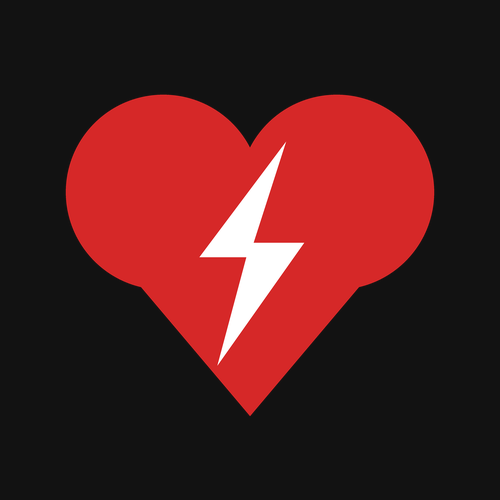
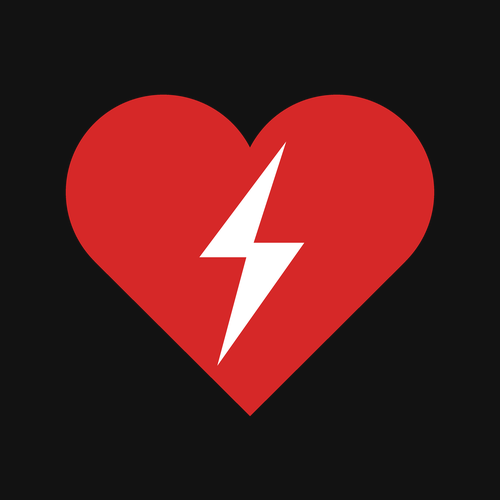
final commit preparing beta

diff --git a/tools/test_logo_geometry.py b/tools/test_logo_geometry.py
@@ -1,0 +1,124 @@
+"""Keeps the heart's silhouette honest, in both languages.
+
+The mark is drawn twice - once with Monkey C primitives in
+source/AedLogo.mc for the watch, once with Pillow in make_icons.py for
+the launcher and store PNGs. Nothing but discipline keeps those two in
+step, and the numbers are unlabelled fractions, so a drift shows up as
+"the icon looks slightly off" months later.
+
+Two real bugs live here, both found by eye and both invisible to every
+other check:
+
+  1. The V used to meet the lobes at an arbitrary inset, so each circle
+     bulged past the straight edge and left a step in the outline.
+  2. The first fix - a plain triangle between the tangent points - put
+     the top edge BELOW the height at which the two circles stop
+     overlapping, punching a hole through the middle of the heart.
+
+So these tests assert the geometry, not the literals: tangency, and
+that the cleavage is actually closed.
+"""
+
+from __future__ import annotations
+
+import math
+import re
+import sys
+from pathlib import Path
+
+import pytest
+
+ROOT = Path(__file__).resolve().parent.parent
+TOOLS = ROOT / "tools"
+if str(TOOLS) not in sys.path:
+    sys.path.insert(0, str(TOOLS))
+
+import make_icons as mi  # noqa: E402
+
+LOGO = (ROOT / "source" / "AedLogo.mc").read_text(encoding="utf-8")
+
+
+def monkeyc_const(name: str) -> float:
+    match = re.search(rf"const {name} = ([\d.]+);", LOGO)
+    assert match, f"AedLogo.mc no longer defines {name}"
+    return float(match.group(1))
+
+
+def test_the_tangent_point_is_actually_tangent():
+    """|CT| = r, and CT is perpendicular to the edge running to the tip."""
+    cx, cy = -mi.LOBE_X, mi.LOBE_DY          # left lobe centre
+    tx, ty = -mi.TANGENT_X, mi.TANGENT_Y     # claimed tangent point
+
+    radius = math.hypot(tx - cx, ty - cy)
+    assert radius == pytest.approx(mi.LOBE_R, abs=1e-5), (
+        f"the tangent point is {radius:.5f} from the lobe centre, but the "
+        f"lobe radius is {mi.LOBE_R} - so it is not on the circle at all"
+    )
+
+    # Edge from the tangent point down to the bottom tip.
+    edge = (0 - tx, mi.TIP_DY - ty)
+    spoke = (tx - cx, ty - cy)
+    dot = edge[0] * spoke[0] + edge[1] * spoke[1]
+    assert dot == pytest.approx(0.0, abs=1e-5), (
+        "the edge is not perpendicular to the radius, so the lobe bulges "
+        "past it and the silhouette has a step"
+    )
+
+
+def test_the_cleavage_is_closed():
+    """The bug that punched a hole through the middle of the heart.
+
+    Below this height the two lobes no longer overlap, so the polygon
+    has to reach at least that high in the middle or the gap between
+    them shows through.
+    """
+    lowest_overlap = mi.LOBE_DY + math.sqrt(mi.LOBE_R ** 2 - mi.LOBE_X ** 2)
+    middle_vertex = mi.LOBE_DY      # both files put it at lobe-centre height
+
+    assert middle_vertex < lowest_overlap, (
+        f"the polygon's middle vertex sits at y={middle_vertex:.5f}, below "
+        f"the last overlap at y={lowest_overlap:.5f} - the cleavage would "
+        f"be a hole"
+    )
+    assert mi.TANGENT_Y > lowest_overlap, (
+        "the tangent points are above the last overlap, which means a "
+        "plain triangle would have worked and this test is guarding "
+        "nothing - recheck the constants"
+    )
+
+
+def test_the_lobes_actually_overlap():
+    """Two separate circles with a V under them is not a heart."""
+    assert mi.LOBE_X < mi.LOBE_R, (
+        f"lobe centres are {2 * mi.LOBE_X} apart with radius {mi.LOBE_R}; "
+        f"they no longer meet"
+    )
+
+
+@pytest.mark.parametrize("name", ["TANGENT_X", "TANGENT_Y"])
+def test_the_watch_carries_the_same_numbers(name):
+    """AedLogo.mc and make_icons.py draw the same mark or neither is right."""
+    assert monkeyc_const(name) == pytest.approx(getattr(mi, name), abs=1e-6), (
+        f"{name} differs between AedLogo.mc and make_icons.py: the watch "
+        f"and the store icon would show different hearts"
+    )
+
+
+def test_the_mark_fits_inside_the_icon_box():
+    """MARK_SCALE has to be small enough to contain the widest point.
+
+    Raise a lobe or widen the heart without touching MARK_SCALE and the
+    launcher icons get clipped - lobes first, and on watches that crop
+    the icon to a circle, badly.
+    """
+    extents = {
+        "half-width": mi.LOBE_X + mi.LOBE_R,
+        "top": abs(mi.LOBE_DY) + mi.LOBE_R,
+        "tip": mi.TIP_DY,
+    }
+    for what, extent in extents.items():
+        drawn = extent * mi.MARK_SCALE
+        assert drawn <= 0.5, (
+            f"the mark's {what} reaches {drawn:.4f} of the box at "
+            f"MARK_SCALE={mi.MARK_SCALE}; anything over 0.5 is clipped"
+        )

diff --git a/tools/make_icons.py b/tools/make_icons.py
@@ -30,6 +30,22 @@ SUPERSAMPLE = 8
 RED = (214, 40, 40, 255)
 BOLT = (255, 255, 255, 255)
 
+# The heart, as fractions of the mark's size. LOBE_* and TIP_DY are the
+# free parameters; TANGENT_* are derived from them and must be
+# recomputed if any of the others move.
+LOBE_R = 0.27
+LOBE_X = 0.24
+LOBE_DY = -0.16
+TIP_DY = 0.46
+TANGENT_X = 0.430510
+TANGENT_Y = 0.031327
+
+# The mark is drawn at 86% of the icon box. Not cosmetic breathing room:
+# the heart is 0.51 wide either side of centre, so at full size it would
+# reach past the edge - and some watches crop the launcher icon to a
+# circle, which takes the lobes off first.
+MARK_SCALE = 0.86
+
 
 def draw_mark(size: int) -> Image.Image:
     """Heart with a bolt punched out. Geometry mirrors AedLogo.draw()."""
@@ -39,13 +55,11 @@ def draw_mark(size: int) -> Image.Image:
 
     cx = s / 2.0
     cy = s / 2.0
-    # Some watches crop to a circle; a heart touching the edge loses
-    # its lobes.
-    scale = s * 0.86
+    scale = s * MARK_SCALE
 
-    lobe_r = 0.27 * scale
-    lobe_y = cy - 0.16 * scale
-    lobe_x = 0.24 * scale
+    lobe_r = LOBE_R * scale
+    lobe_y = cy + LOBE_DY * scale
+    lobe_x = LOBE_X * scale
 
     draw.ellipse(
         [cx - lobe_x - lobe_r, lobe_y - lobe_r,
@@ -57,10 +71,19 @@ def draw_mark(size: int) -> Image.Image:
          cx + lobe_x + lobe_r, lobe_y + lobe_r],
         fill=RED,
     )
+    # The V meets the lobes at their tangent points, so the silhouette
+    # has no step where circle becomes straight edge. The middle vertex
+    # is at lobe-centre height: below y = -0.036 the circles stop
+    # overlapping, and a straight edge between the tangent points
+    # (y = +0.031) would leave a hole in the cleavage.
+    #
+    # tools/test_logo_geometry.py rederives TANGENT_* from the lobe
+    # constants and checks AedLogo.mc carries the same numbers.
     draw.polygon(
         [
-            (cx - (lobe_x + lobe_r) + 0.02 * scale, lobe_y + 0.04 * scale),
-            (cx + (lobe_x + lobe_r) - 0.02 * scale, lobe_y + 0.04 * scale),
+            (cx - TANGENT_X * scale, cy + TANGENT_Y * scale),
+            (cx, lobe_y),
+            (cx + TANGENT_X * scale, cy + TANGENT_Y * scale),
             (cx, cy + 0.46 * scale),
         ],
         fill=RED,

diff --git a/tools/test_workflows.py b/tools/test_workflows.py
@@ -117,6 +117,29 @@ def test_the_data_build_commits_something():
     )
 
 
+@pytest.mark.parametrize("path", WORKFLOWS, ids=lambda p: p.name)
+def test_a_deploying_workflow_does_not_cancel_itself(path):
+    """A cancelled deploy fails silently.
+
+    cancel-in-progress kills the whole run, deploy job included, and
+    reports "cancelled" rather than "failed" - so the tiles stay
+    unpublished and no notification fires. Whatever was live keeps being
+    served, which is the worst shape of failure: the app still works,
+    just against stale data.
+    """
+    spec = load(path)
+    deploys = any(
+        "deploy-pages" in (s.get("uses") or "") for s in steps(spec)
+    )
+    if not deploys:
+        return
+    concurrency = spec.get("concurrency") or {}
+    assert concurrency.get("cancel-in-progress") is not True, (
+        f"{path.name} deploys to Pages but cancels in-progress runs; a "
+        f"cancelled deploy leaves the old data live and reports no failure"
+    )
+
+
 def test_ci_runs_on_every_push_with_no_path_filter():
     """The grid guard must fire on the change it guards.
 

diff --git a/tools/test_export_script.py b/tools/test_export_script.py
@@ -42,6 +42,23 @@ def test_the_grid_regex_still_finds_the_constant():
     assert float(found.group(1)) == bt.CELL_DEG
 
 
+def test_the_freshness_check_defeats_caching():
+    """A cached response makes this guard lie in the worst direction.
+
+    Pages is behind a CDN and proxies cache on top of that, so a bare
+    GET can return the previous deploy's meta.json for a long time after
+    the new one is live. The guard then blocks a release that is
+    perfectly fine - which happened, and cost more trust than the check
+    was worth. The query string is what makes the answer current.
+    """
+    fetch = [l for l in SCRIPT.splitlines() if "meta.json" in l]
+    assert fetch, "export.ps1 no longer fetches meta.json"
+    assert any("?t=$" in l or "?t=" in l for l in fetch), (
+        "the meta.json fetch has no cache-busting query string, so it can "
+        "block a release on data that is already published"
+    )
+
+
 def test_it_checks_the_published_metadata():
     assert "meta.json" in SCRIPT, (
         "export.ps1 no longer fetches the published meta.json, so a "
